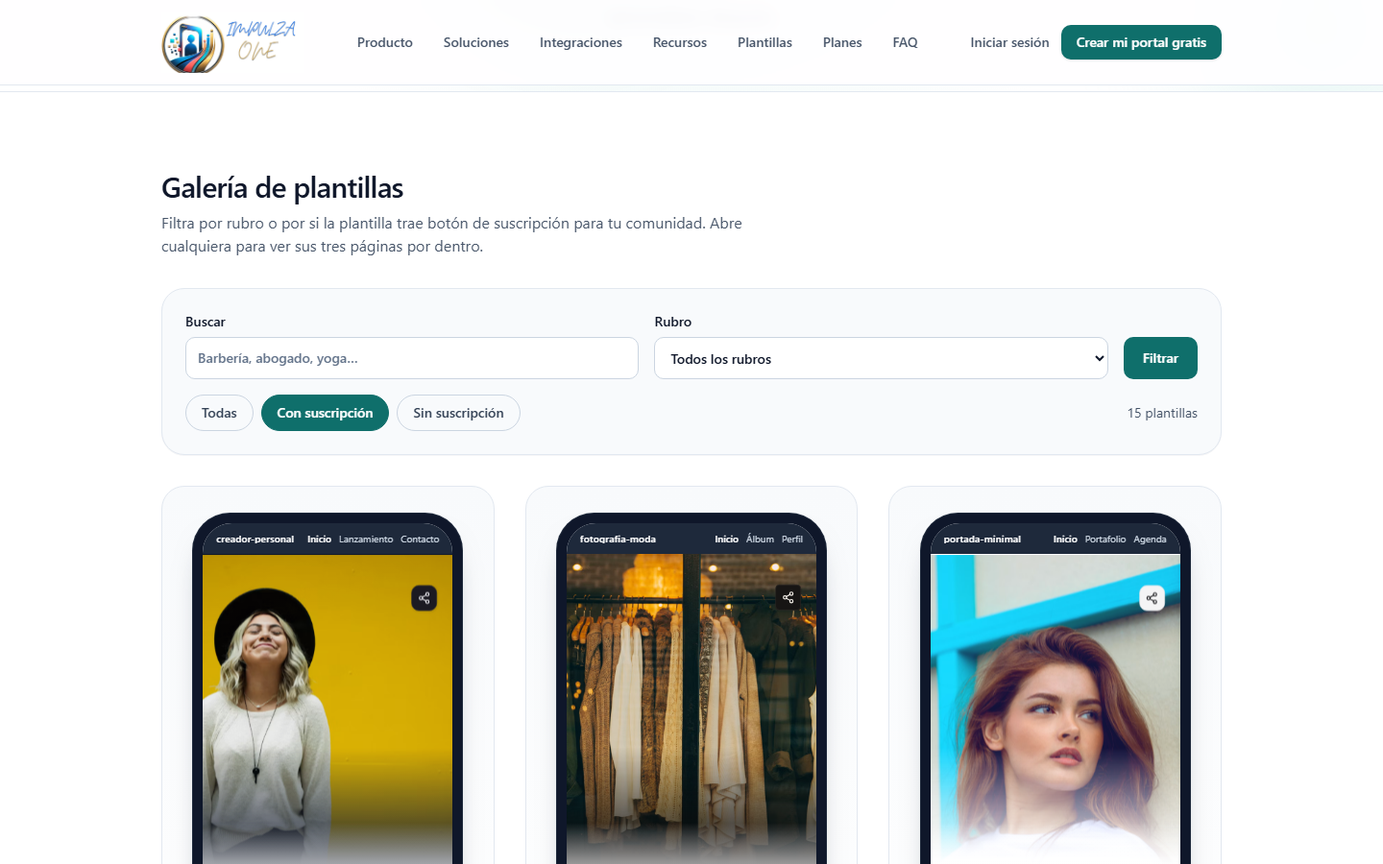
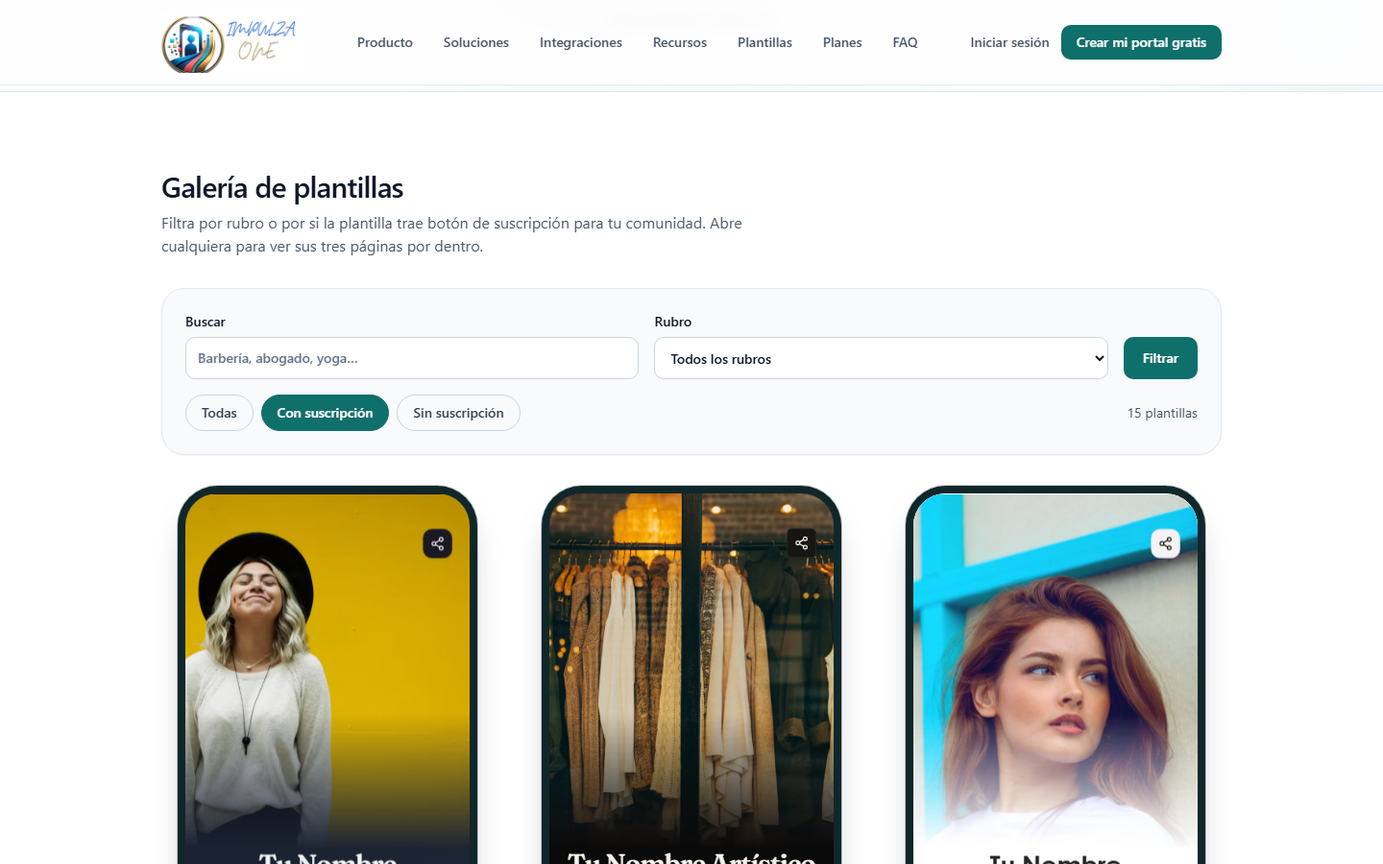
feat(plantillas): tarjetas de galeria y vista previa con marco de telefono unificado
- Galeria y detalle comparten el mismo telefono (bisel #10272a, esquinas 2.6rem/2.1rem)
- Tarjeta con acciones «Ver plantilla» y «Usar plantilla»
- useIsClient (useSyncExternalStore) en lugar de setState dentro de un efecto (lint)
- E2E de la galeria apuntan al enlace del titulo; capturas actualizadas

diff --git a/apps/web/components/marketing/template-gallery-card.tsx b/apps/web/components/marketing/template-gallery-card.tsx
@@ -1,66 +1,100 @@
 import type { TemplateResponse } from "@impulza/contracts";
 import { TEMPLATE_INDUSTRY_LABELS } from "@impulza/validation";
 import Link from "next/link";
-import { pageTitle, templateHasSubscription, templatePageCount } from "../../lib/template-gallery";
+import { blocksSummary, pageTitle, templateHasSubscription } from "../../lib/template-gallery";
 import { ClientTemplateThumbnail } from "./client-template-thumbnail";
 
-/** Páginas visibles en la barra del teléfono; el resto se resume en «+N». */
-const NAV_VISIBLE = 3;
+/** Alto de la pantalla del teléfono (px): proporción de un móvil real, igual en todas las tarjetas. */
+const SCREEN_HEIGHT = 580;
+
+type SeedBlock = { type: string; config?: unknown };
+
+/** Rasgos de diseño de la plantilla que vale la pena destacar como etiqueta (cabecera, índice, esfera 3D). */
+function designTags(template: TemplateResponse): string[] {
+  const blocks: SeedBlock[] = [...template.blocks, ...(template.companionPages ?? []).flatMap((page) => page.blocks)];
+  const layoutOf = (type: string) => blocks.find((block) => block.type === type)?.config as { layout?: string } | undefined;
+  const tags: string[] = [];
+  const profile = layoutOf("profile")?.layout;
+  if (profile === "banner") tags.push("Banner");
+  if (profile === "cutout") tags.push("Recorte");
+  if (blocks.some((block) => block.type === "showcase" && (block.config as { layout?: string } | undefined)?.layout === "index")) tags.push("Índice");
+  if (blocks.some((block) => block.type === "gallery" && (block.config as { layout?: string } | undefined)?.layout === "sphere")) tags.push("Esfera 3D");
+  return tags;
+}
 
 /**
- * Tarjeta de la galería pública: la plantilla real dentro de un marco de teléfono (bisel oscuro, barra superior con su código y
- * las páginas reales, desvanecido al pie que indica que el contenido continúa), y debajo nombre, descripción y etiquetas. El
- * enlace va superpuesto (no envuelve la miniatura, que trae sus propios `<a>`): mismo criterio que `TemplateCardLink`.
+ * Tarjeta de la galería pública: la plantilla real (mismo motor que un sitio publicado) dentro de un teléfono de bisel
+ * oscuro y grueso, con proporción de móvil real; debajo, el nombre con su número, el código, las páginas internas con lo que
+ * incluyen y las etiquetas (suscripción y rasgos de diseño). El enlace de la tarjeta va superpuesto (la miniatura trae sus
+ * propios `<a>`); el botón «Usar» queda por encima para ser clicable por separado.
  */
-export function TemplateGalleryCard({ template }: { template: TemplateResponse }) {
+export function TemplateGalleryCard({ template, useHref, index }: { template: TemplateResponse; useHref?: string; index?: number }) {
   const subscription = templateHasSubscription(template);
-  const pages = ["Inicio", ...(template.companionPages ?? []).map((page) => pageTitle(page.slug))];
-  const visible = pages.slice(0, NAV_VISIBLE);
-  const hidden = pages.length - visible.length;
+  const companions = (template.companionPages ?? []).map((page) => ({ slug: page.slug, summary: blocksSummary(page.blocks).join(", ") }));
+  const industry = template.industryTags[0];
+  const tags = designTags(template);
 
   return (
-    <article className="group relative flex h-full flex-col items-center gap-5 rounded-3xl border border-[#e2e8f0] bg-gradient-to-b from-[#f8fafc] to-white px-5 pb-6 pt-7 transition-[border-color,transform,box-shadow] duration-300 hover:-translate-y-1 hover:border-[#94a3b8] hover:shadow-[0_18px_40px_-24px_rgba(15,23,42,0.35)] focus-within:-translate-y-1 has-[:focus-visible]:outline-2 has-[:focus-visible]:outline-offset-2 has-[:focus-visible]:outline-[#0f6f6b] motion-reduce:transition-none motion-reduce:hover:translate-y-0">
-      <div aria-hidden="true" className="w-full max-w-[17.5rem] rounded-[2.4rem] bg-[#0f172a] p-2.5 shadow-[0_20px_36px_-20px_rgba(15,23,42,0.55)] ring-1 ring-[#1e293b]">
-        <div className="relative overflow-hidden rounded-[1.9rem] bg-white">
-          <div className="flex h-8 items-center justify-between gap-2 bg-[#1e293b] px-3.5 text-[0.625rem] leading-none text-[#e2e8f0]">
-            <span className="min-w-0 truncate font-semibold tracking-wide text-white">{template.code}</span>
-            <span className="flex shrink-0 items-center gap-2 text-[#cbd5e1]">
-              {visible.map((label, index) => (
-                <span key={label} className={index === 0 ? "font-semibold text-white" : undefined}>
-                  {label}
-                </span>
-              ))}
-              {hidden > 0 ? <span className="text-[#94a3b8]">+{hidden}</span> : null}
-            </span>
-          </div>
-          <ClientTemplateThumbnail template={template} height={360} fitWidth />
-          <div className="pointer-events-none absolute inset-x-0 bottom-0 h-20 bg-gradient-to-t from-white/95 via-white/55 to-transparent" />
-          <div className="pointer-events-none absolute inset-x-0 bottom-2 mx-auto h-1 w-16 rounded-full bg-[#0f172a]/25" />
+    <article className="group relative mx-auto flex h-full w-full max-w-[19.5rem] flex-col gap-4 has-[a:focus-visible]:outline-2 has-[a:focus-visible]:outline-offset-8 has-[a:focus-visible]:outline-[#0f6f6b]">
+      <div className="rounded-[2.6rem] bg-[#10272a] p-2 shadow-[0_22px_40px_-22px_rgba(15,23,42,0.6)] ring-1 ring-black/20 transition-[transform,box-shadow] duration-300 group-hover:-translate-y-1.5 group-hover:shadow-[0_32px_50px_-24px_rgba(15,23,42,0.65)] group-focus-within:-translate-y-1.5 motion-reduce:transition-none motion-reduce:group-hover:translate-y-0">
+        <div className="relative overflow-hidden rounded-[2.1rem] bg-white" style={{ height: SCREEN_HEIGHT }}>
+          <ClientTemplateThumbnail template={template} height={SCREEN_HEIGHT} fitWidth />
         </div>
       </div>
-      <div className="flex w-full flex-1 flex-col gap-3">
-        <div className="flex flex-col gap-1.5">
+
+      <div className="flex flex-col gap-2.5 px-1">
+        <div className="flex items-baseline justify-between gap-3">
           <h3 className="text-lg font-semibold tracking-tight text-[#0f172a]">
-            <Link href={`/plantillas/${template.code}`} className="after:absolute after:inset-0 after:rounded-3xl focus-visible:outline-none group-has-[:focus-visible]:underline">
+            <Link href={`/plantillas/${template.code}`} className="after:absolute after:inset-0 after:z-0 focus-visible:outline-none">
               {template.name}
             </Link>
           </h3>
-          <p className="line-clamp-2 text-sm leading-relaxed text-[#475569]">{template.description}</p>
+          {index ? <span className="shrink-0 font-mono text-xs text-[#64748b]">rubro {index}</span> : null}
         </div>
-        <ul className="mt-auto flex flex-wrap gap-1.5" aria-label="Detalles">
-          <li className={`rounded-full px-2.5 py-1 text-xs font-semibold ${subscription ? "bg-[#e6f5f3] text-[#0b5450]" : "border border-[#e2e8f0] bg-white text-[#475569]"}`}>
+
+        <p className="font-mono text-xs font-semibold text-[#0f6f6b]">{template.code}</p>
+
+        {companions.length > 0 ? (
+          <ul className="flex flex-col gap-0.5 text-[0.8rem] leading-snug text-[#475569]" aria-label="Páginas incluidas">
+            {companions.map((page) => (
+              <li key={page.slug}>
+                <span className="font-mono font-semibold text-[#0f172a]">/{page.slug}</span>
+                {page.summary ? <span> · {page.summary}</span> : <span> · {pageTitle(page.slug)}</span>}
+              </li>
+            ))}
+          </ul>
+        ) : null}
+
+        <ul className="flex flex-wrap gap-1.5 pt-1" aria-label="Etiquetas">
+          <li
+            className={`rounded-full px-3 py-1 text-xs font-medium ${subscription ? "bg-[#d9f2ee] text-[#0b5551]" : "bg-white text-[#475569] ring-1 ring-[#cbd5e1]"}`}
+          >
             {subscription ? "Con suscripción" : "Sin suscripción"}
           </li>
-          <li className="rounded-full border border-[#e2e8f0] bg-white px-2.5 py-1 text-xs font-medium text-[#475569]">{templatePageCount(template)} páginas</li>
-          {template.industryTags.slice(0, 2).map((tag) => (
-            <li key={tag} className="rounded-full border border-[#e2e8f0] bg-white px-2.5 py-1 text-xs font-medium text-[#475569]">
-              {TEMPLATE_INDUSTRY_LABELS[tag]}
+          {tags.map((tag) => (
+            <li key={tag} className="rounded-full bg-white px-3 py-1 text-xs font-medium text-[#0b5551] ring-1 ring-[#0f6f6b]/60">
+              {tag}
             </li>
           ))}
+          {industry ? (
+            <li className="rounded-full bg-[#f1f5f9] px-3 py-1 text-xs font-medium text-[#475569]">{TEMPLATE_INDUSTRY_LABELS[industry]}</li>
+          ) : null}
         </ul>
-        <span aria-hidden="true" className="inline-flex items-center gap-1 text-sm font-semibold text-[#0f6f6b] transition-transform group-hover:translate-x-0.5 motion-reduce:transform-none">
-          Ver plantilla →
-        </span>
+
+        <div className="mt-1 flex items-center justify-between gap-3 border-t border-[#e2e8f0] pt-3">
+          <span aria-hidden="true" className="text-sm font-semibold text-[#0f172a] transition-transform group-hover:translate-x-0.5 motion-reduce:transform-none">
+            Ver plantilla →
+          </span>
+          {useHref ? (
+            <a
+              href={useHref}
+              className="relative z-10 inline-flex min-h-10 items-center rounded-full bg-[#0f6f6b] px-4 text-sm font-semibold text-white transition-opacity hover:opacity-90 focus-visible:outline-2 focus-visible:outline-offset-2 focus-visible:outline-[#0f6f6b]"
+              aria-label={`Usar la plantilla ${template.name}`}
+            >
+              Usar plantilla
+            </a>
+          ) : null}
+        </div>
       </div>
     </article>
   );

diff --git a/apps/web/components/marketing/template-pages-preview.tsx b/apps/web/components/marketing/template-pages-preview.tsx
@@ -3,7 +3,8 @@
 import { PageBlocks, SiteBackdrop } from "@impulza/blocks-renderer";
 import type { TemplateResponse } from "@impulza/contracts";
 import { backgroundForDisplay, parseStoredBlock, resolveSiteBackground, themeTokensSchema } from "@impulza/validation";
-import { useEffect, useId, useState } from "react";
+import { useId, useState } from "react";
+import { useIsClient } from "./use-is-client";
 
 const PREVIEW_WIDTH = 390;
 
@@ -27,8 +28,7 @@ export function TemplatePagesPreview({ template, pageLabels }: { template: Templ
   const [active, setActive] = useState(0);
   // Solo en el navegador: el HTML del servidor (lo que leen los buscadores) no lleva el contenido de ejemplo de la plantilla
   // (su propio `h1` de perfil, textos «de ejemplo»), así la página tiene un único título principal y no indexa relleno.
-  const [mounted, setMounted] = useState(false);
-  useEffect(() => setMounted(true), []);
+  const mounted = useIsClient();
   const tokens = themeTokensSchema.parse(template.theme.tokens);
   const background = resolveSiteBackground(backgroundForDisplay(template.background, template.theme.code), tokens, (key) => key);
   const current = pages[active]!;
@@ -63,23 +63,25 @@ export function TemplatePagesPreview({ template, pageLabels }: { template: Templ
           </button>
         ))}
       </div>
-      <div className="w-full max-w-[24.5rem] rounded-[2.4rem] bg-[#0f172a] p-2.5">
-        <div
-          id={`${id}-panel`}
-          role="tabpanel"
-          aria-labelledby={`${id}-tab-${active}`}
-          tabIndex={0}
-          className="h-[38rem] overflow-y-auto overscroll-contain rounded-[1.9rem] bg-white focus-visible:outline-2 focus-visible:outline-offset-2 focus-visible:outline-[#0f6f6b]"
-        >
-          {mounted ? (
-            <div inert className="pointer-events-none" style={{ width: "100%", maxWidth: PREVIEW_WIDTH, margin: "0 auto" }}>
-              <SiteBackdrop key={current.slug} theme={tokens} background={background} fixed={false} showModeToggle={false} className="min-h-[38rem]">
-                <PageBlocks blocks={renderable(current.blocks)} buttonStyle={tokens.buttonStyle} mode="preview" primaryActionBar={false} />
-              </SiteBackdrop>
-            </div>
-          ) : (
-            <div aria-hidden="true" className="h-full animate-pulse bg-[#f1f5f9] motion-reduce:animate-none" />
-          )}
+      <div className="w-full max-w-[24.5rem] rounded-[2.6rem] bg-[#10272a] p-2 shadow-[0_22px_40px_-22px_rgba(15,23,42,0.6)] ring-1 ring-black/20">
+        <div className="overflow-hidden rounded-[2.1rem] bg-white">
+          <div
+            id={`${id}-panel`}
+            role="tabpanel"
+            aria-labelledby={`${id}-tab-${active}`}
+            tabIndex={0}
+            className="h-[44rem] overflow-y-auto overscroll-contain bg-white [scrollbar-color:#cbd5e1_transparent] [scrollbar-width:thin] focus-visible:outline-2 focus-visible:outline-offset-[-4px] focus-visible:outline-[#0f6f6b]"
+          >
+            {mounted ? (
+              <div inert className="pointer-events-none" style={{ width: "100%", maxWidth: PREVIEW_WIDTH, margin: "0 auto" }}>
+                <SiteBackdrop key={current.slug} theme={tokens} background={background} fixed={false} showModeToggle={false} className="min-h-[44rem]">
+                  <PageBlocks blocks={renderable(current.blocks)} buttonStyle={tokens.buttonStyle} mode="preview" primaryActionBar={false} />
+                </SiteBackdrop>
+              </div>
+            ) : (
+              <div aria-hidden="true" className="h-full animate-pulse bg-[#f1f5f9] motion-reduce:animate-none" />
+            )}
+          </div>
         </div>
       </div>
       <p className="text-xs text-[#64748b]">Contenido de ejemplo: lo reemplazas con lo tuyo después de elegirla.</p>

diff --git a/apps/web/components/marketing/template-thumbnail.tsx b/apps/web/components/marketing/template-thumbnail.tsx
@@ -31,7 +31,9 @@ export function TemplateThumbnail({
   fitWidth?: boolean;
 }) {
   const hostRef = useRef<HTMLDivElement>(null);
+  const contentRef = useRef<HTMLDivElement>(null);
   const [hostWidth, setHostWidth] = useState(0);
+  const [naturalHeight, setNaturalHeight] = useState(0);
   useEffect(() => {
     if (!fitWidth || !hostRef.current) return;
     const el = hostRef.current;
@@ -41,7 +43,21 @@ export function TemplateThumbnail({
     observer.observe(el);
     return () => observer.disconnect();
   }, [fitWidth]);
-  const scale = fitWidth ? (hostWidth > 0 ? hostWidth / PREVIEW_WIDTH : 0.0001) : height / (PREVIEW_WIDTH * 1.6);
+  const baseScale = fitWidth ? (hostWidth > 0 ? hostWidth / PREVIEW_WIDTH : 0.0001) : height / (PREVIEW_WIDTH * 1.6);
+  // Con `fitWidth`, una plantilla corta (sin portada) no llena el alto del marco a `baseScale` y deja un
+  // espacio en blanco abajo -- se mide el alto real del contenido (`scrollHeight` no lo afecta `scale`, que es
+  // puramente visual) y se sube el zoom lo necesario para que el marco quede siempre lleno, igual que una
+  // plantilla con foto de portada (nunca se reduce el zoom: solo sube cuando hace falta).
+  useEffect(() => {
+    if (!fitWidth || !contentRef.current) return;
+    const el = contentRef.current;
+    const measure = () => setNaturalHeight(el.scrollHeight);
+    measure();
+    const observer = new ResizeObserver(measure);
+    observer.observe(el);
+    return () => observer.disconnect();
+  }, [fitWidth]);
+  const scale = fitWidth && naturalHeight > 0 ? Math.max(baseScale, height / naturalHeight) : baseScale;
   const tokens = themeTokensSchema.parse(template.theme.tokens);
   const background = resolveSiteBackground(backgroundForDisplay(template.background, template.theme.code), tokens, (key) => key);
   const blocks = template.blocks.flatMap((block, position) => {
@@ -52,6 +68,7 @@ export function TemplateThumbnail({
   return (
     <div ref={hostRef} aria-hidden="true" inert className="relative overflow-hidden" style={{ height }}>
       <div
+        ref={contentRef}
         className="pointer-events-none absolute top-0"
         style={{ left: "50%", width: PREVIEW_WIDTH, transform: `translateX(-50%) scale(${scale})`, transformOrigin: "top" }}
       >

diff --git a/apps/web/app/plantillas/page.tsx b/apps/web/app/plantillas/page.tsx
@@ -5,12 +5,12 @@ import { Reveal } from "../../components/marketing/reveal";
 import { GalleryPagination } from "../../components/marketing/gallery-pagination";
 import { TemplateGalleryFilters } from "../../components/marketing/template-gallery";
 import { TemplateGalleryCard } from "../../components/marketing/template-gallery-card";
-import { getDashboardLinks } from "../../lib/dashboard-links";
+import { getDashboardLinks, getTemplateLinks } from "../../lib/dashboard-links";
 import { getTemplateCatalog, getPlatformBranding } from "../../lib/api";
 import { RubrosCarousel } from "../../components/marketing/rubros-carousel";
 import { JsonLd } from "../../components/json-ld";
 import { impulzaOrganizationNode } from "../../lib/marketing-structured-data";
-import { filterTemplates, galleryHref, hasActiveFilters, industriesInCatalog, paginate, parseGalleryQuery } from "../../lib/template-gallery";
+import { filterTemplates, galleryHref, hasActiveFilters, industriesInCatalog, paginate, parseGalleryQuery, TEMPLATES_PER_PAGE } from "../../lib/template-gallery";
 import type { Metadata } from "next";
 import Link from "next/link";
 
@@ -82,10 +82,10 @@ export default async function PlantillasPage({ searchParams }: Props) {
           <TemplateGalleryFilters query={query} industries={industriesInCatalog(templates)} total={results.total} />
           {results.total > 0 ? (
             <>
-              <ul className="grid gap-8 sm:grid-cols-2 lg:grid-cols-3" aria-label={`Plantillas, página ${results.page} de ${results.totalPages}`}>
-                {results.items.map((template) => (
+              <ul className="grid gap-x-8 gap-y-14 sm:grid-cols-2 lg:grid-cols-3" aria-label={`Plantillas, página ${results.page} de ${results.totalPages}`}>
+                {results.items.map((template, position) => (
                   <li key={template.code}>
-                    <TemplateGalleryCard template={template} />
+                    <TemplateGalleryCard template={template} index={(results.page - 1) * TEMPLATES_PER_PAGE + position + 1} useHref={getTemplateLinks(template.code).useHref} />
                   </li>
                 ))}
               </ul>

diff --git a/packages/e2e/tests/galeria-plantillas-publica.spec.ts b/packages/e2e/tests/galeria-plantillas-publica.spec.ts
@@ -79,7 +79,7 @@ test("filtros por suscripción, rubro y búsqueda, con un estado vacío que llev
   await page.getByRole("button", { name: "Filtrar" }).click();
   await expect(page).toHaveURL(/q=tatuajes/);
   await expect(cards(page)).toHaveCount(1);
-  await expect(cards(page).first().getByRole("link", { name: "Estudio de tatuajes" })).toBeVisible();
+  await expect(cards(page).first().getByRole("link", { name: "Estudio de tatuajes", exact: true })).toBeVisible();
 
   await page.goto(`${PUBLIC_WEB_URL}/plantillas?q=xyzxyz`);
   await expect(page.getByText("Ninguna plantilla coincide con esos filtros.")).toBeVisible();
@@ -89,7 +89,7 @@ test("filtros por suscripción, rubro y búsqueda, con un estado vacío que llev
 
 test("cada plantilla tiene su página: tres páginas en vivo con pestañas, botones al panel con la plantilla y SEO propio", async ({ page }, testInfo) => {
   await page.goto(`${PUBLIC_WEB_URL}/plantillas`);
-  await cards(page).first().getByRole("link").click();
+  await cards(page).first().getByRole("heading").getByRole("link").click();
   await expect(page).toHaveURL(/\/plantillas\/[a-z0-9-]+$/);
 
   await page.goto(`${PUBLIC_WEB_URL}/plantillas/estudio-tatuajes`);

diff --git a/apps/web/components/marketing/client-template-thumbnail.tsx b/apps/web/components/marketing/client-template-thumbnail.tsx
@@ -1,7 +1,7 @@
 "use client";
 
 import type { TemplateResponse } from "@impulza/contracts";
-import { useEffect, useState } from "react";
+import { useIsClient } from "./use-is-client";
 import { TemplateThumbnail } from "./template-thumbnail";
 
 /**
@@ -10,8 +10,7 @@ import { TemplateThumbnail } from "./template-thumbnail";
  * títulos principales y relleno indexado en cada página de la galería. Mientras carga, un bloque del mismo alto (sin saltos).
  */
 export function ClientTemplateThumbnail({ template, height, fitWidth = false }: { template: TemplateResponse; height: number; fitWidth?: boolean }) {
-  const [mounted, setMounted] = useState(false);
-  useEffect(() => setMounted(true), []);
+  const mounted = useIsClient();
   if (!mounted) return <div aria-hidden="true" className="animate-pulse bg-[#f1f5f9] motion-reduce:animate-none" style={{ height }} />;
   return <TemplateThumbnail template={template} height={height} fitWidth={fitWidth} />;
 }

diff --git a/apps/web/app/plantillas/[code]/page.tsx b/apps/web/app/plantillas/[code]/page.tsx
@@ -193,7 +193,7 @@ export default async function TemplatePage({ params }: Props) {
                 Ver toda la galería
               </Link>
             </div>
-            <ul className="grid gap-6 sm:grid-cols-2 lg:grid-cols-3">
+            <ul className="grid gap-x-8 gap-y-14 sm:grid-cols-2 lg:grid-cols-3">
               {related.map((item) => (
                 <li key={item.code}>
                   <TemplateGalleryCard template={item} />

diff --git a/apps/web/components/marketing/use-is-client.ts b/apps/web/components/marketing/use-is-client.ts
@@ -1,0 +1,7 @@
+import { useSyncExternalStore } from "react";
+
+const subscribeNoop = () => () => {};
+/** `true` solo en el navegador (en el servidor y en la hidratación es `false`): sin `setState` dentro de un efecto. */
+export function useIsClient(): boolean {
+  return useSyncExternalStore(subscribeNoop, () => true, () => false);
+}

diff --git a/docs/CONTINUIDAD.md b/docs/CONTINUIDAD.md
@@ -7,6 +7,8 @@ cada historia: estado, siguiente paso y cualquier trampa técnica nueva.
 
 **2026-10-14, paneles laterales del asistente (`side-panels.tsx`):** el «tinte verde» era el degradado de marca del contenedor visible mientras no llegaba el primer cuadro (video de 4,4 MB en 1440×2560, sin póster, `preload="metadata"`). Ahora: video recodificado a 540×960 `+faststart` (387 KB), póster con su primer cuadro (`demo-portal-poster.jpg`), fondo neutro. Paneles pegados al borde (solo redondean el lado interior). «Consejos» con ilustraciones propias hechas con tokens (miniaturas del producto) y un consejo destacado más grande. La e2e de paneles afirma bordes, póster y fondo sin degradado. **Trampa:** la pestaña de Claude in Chrome queda `hidden` y Chrome no carga video ahí (readyState 0): no es un bug de la app.
 
+**2026-10-15 (noche, ajuste), marco de teléfono unificado en galería y detalle:** `template-gallery-card.tsx` y `template-pages-preview.tsx` comparten el mismo teléfono (bisel `#10272a`, `p-2`, esquinas 2.6rem/2.1rem, scroll fino); la tarjeta tiene dos enlaces (título y «Usar plantilla»), por eso las e2e apuntan al del título (`getByRole("heading").getByRole("link")`) y usan `exact: true`. `useIsClient` (`components/marketing/use-is-client.ts`, `useSyncExternalStore`) reemplaza `useEffect(() => setMounted(true))`, que el lint de React 19 rechaza. Verificado: renderer build, typecheck+lint de `apps/web` (sin errores; queda 1 advertencia previa en `member-enter-card.tsx`), `apps/web` 105/105, Playwright `galeria-plantillas-publica` + `plantillas-portales` 20/20, y medidas reales a 360 y 1440 px (sin scroll horizontal, mismo bisel en ambas páginas). Se restauraron las capturas regeneradas de `plantillas-portales`.
+
 **2026-10-15 (noche), galería pública de plantillas CERRADA con rediseño profesional:** cada tarjeta es la plantilla real dentro de un marco de teléfono (bisel oscuro, barra superior con el código y las páginas reales —Inicio + compañeras vía `pageTitle()`, «+N» si hay más de 3—, desvanecido al pie), con nombre, descripción, etiquetas y «Ver plantilla →» debajo; `TemplateThumbnail` suma `fitWidth` (escala al ancho real del marco con `ResizeObserver`, el teléfono llena el marco en vez de quedar angosto); grid `gap-8`, filtros en `rounded-3xl`. Miniaturas con 0 vistas / 0 me gusta (`zeroEngagementPreview`, requiere `pnpm --filter @impulza/blocks-renderer build` y reiniciar `apps/web`/`apps/dashboard`). Verificado: typecheck web+dashboard, `apps/web` 105/105, `validation` 1579/1579, Playwright `galeria-plantillas-publica` 10/10 (con `next build` real). Catálogo real: **41** plantillas (no 43), las 41 con `engagement`, 15 con `subscribe` (solo rubros de comunidad). **Trampa:** el aviso «1 Issue» de hidratación en dev es una extensión del navegador (`data-demoway-document-id` en `<body>`), no del código. La miniatura del onboarding (`apps/dashboard/.../template-preview.tsx`) NO lleva el marco: es una tarjeta pequeña dentro de un asistente de 7 pasos con su propia escala por alto; el marco de teléfono le restaría espacio útil.
 
 **2026-10-15, galería pública de plantillas en el sitio de Impulza (`apps/web`):** `/plantillas` conserva portada, carrusel de rubros y llamado final, y suma la galería (`#galeria`) con filtros por rubro, «con/sin suscripción» y búsqueda **en la dirección** (`?rubro=&suscripcion=&q=&pagina=`, formulario GET con `next/form`, funciona sin JavaScript), **paginación de 9** con enlaces reales y estado vacío. Lógica pura y probada en `lib/template-gallery.ts`. Página por plantilla `/plantillas/[code]`: vista previa en vivo de sus 3 páginas con pestañas (teclado), «qué incluye», «pensada para», relacionadas, `CreativeWork` + `BreadcrumbList`, canónica, OG; las 41 en el sitemap; vistas filtradas `noindex,follow`. Vistas previas y miniaturas de la galería **solo en el navegador** (`client-template-thumbnail.tsx`): el HTML del servidor tiene un único `h1` y sin relleno de ejemplo. Puente al panel: `?plantilla=<código>` (`apps/dashboard/lib/template-intent.ts`, guardado 7 días en `localStorage`, capturado en `providers.tsx`) → con cuenta, el login lleva a «Crear sitio» con la plantilla elegida; cuenta nueva, el paso 7 del asistente la deja marcada. E2E `galeria-plantillas-publica.spec.ts`. **Detalle previo encontrado:** los títulos de `/planes`, `/producto` (y otras páginas comerciales) repiten «— Impulza One» porque el layout ya lo agrega; en `/plantillas` quedó corregido.
